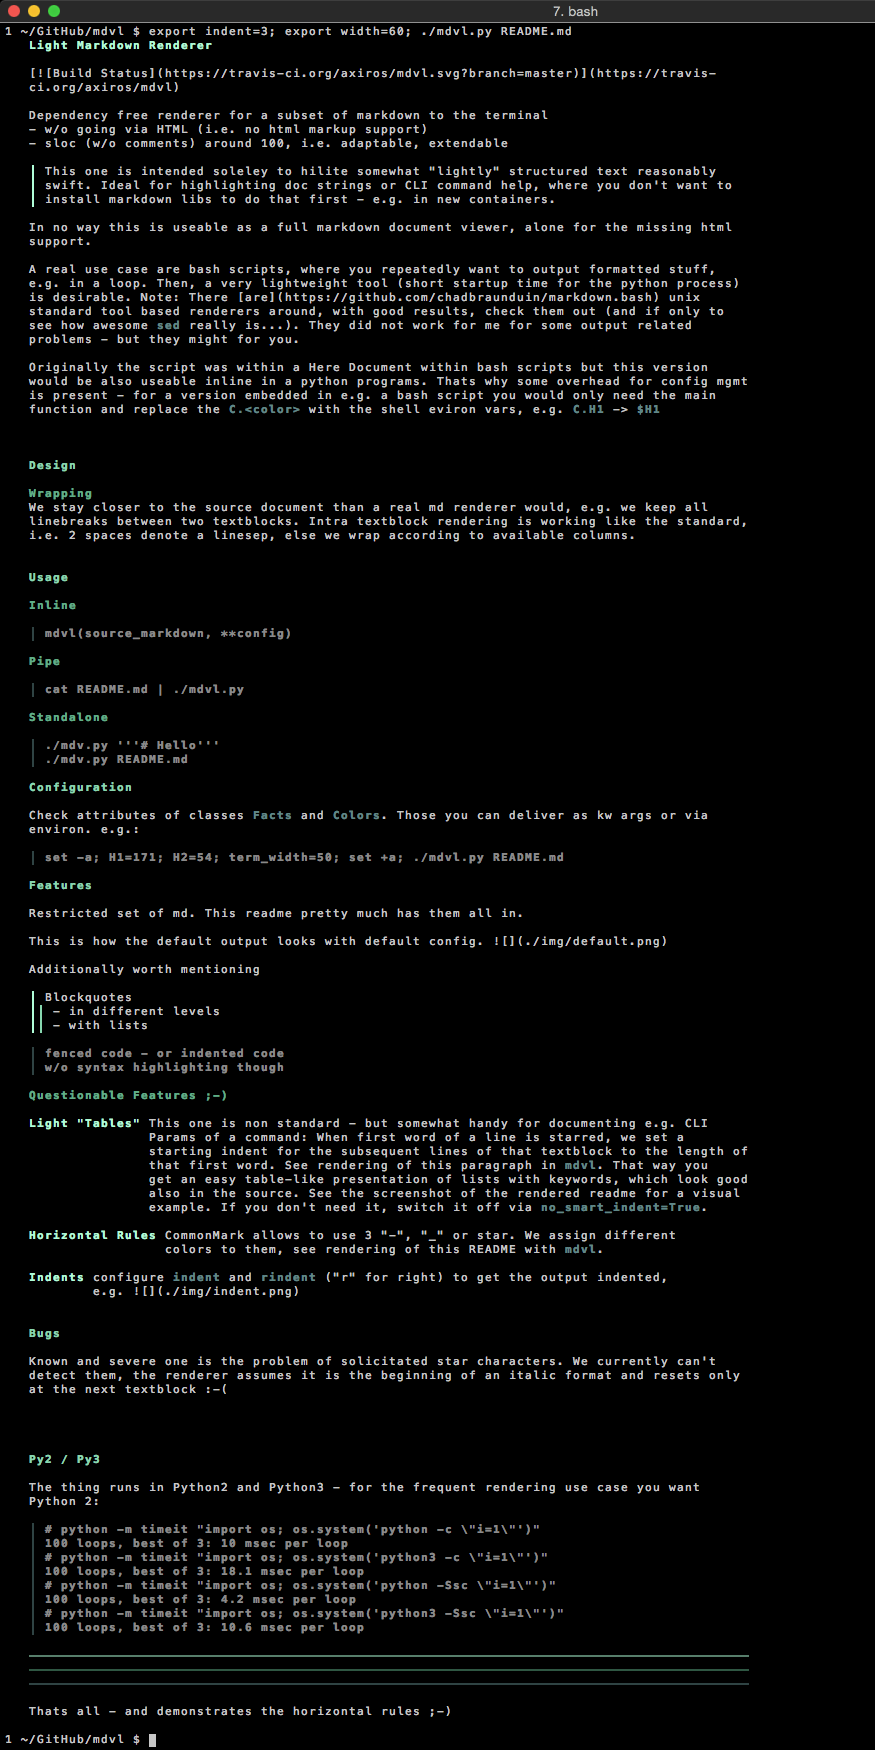
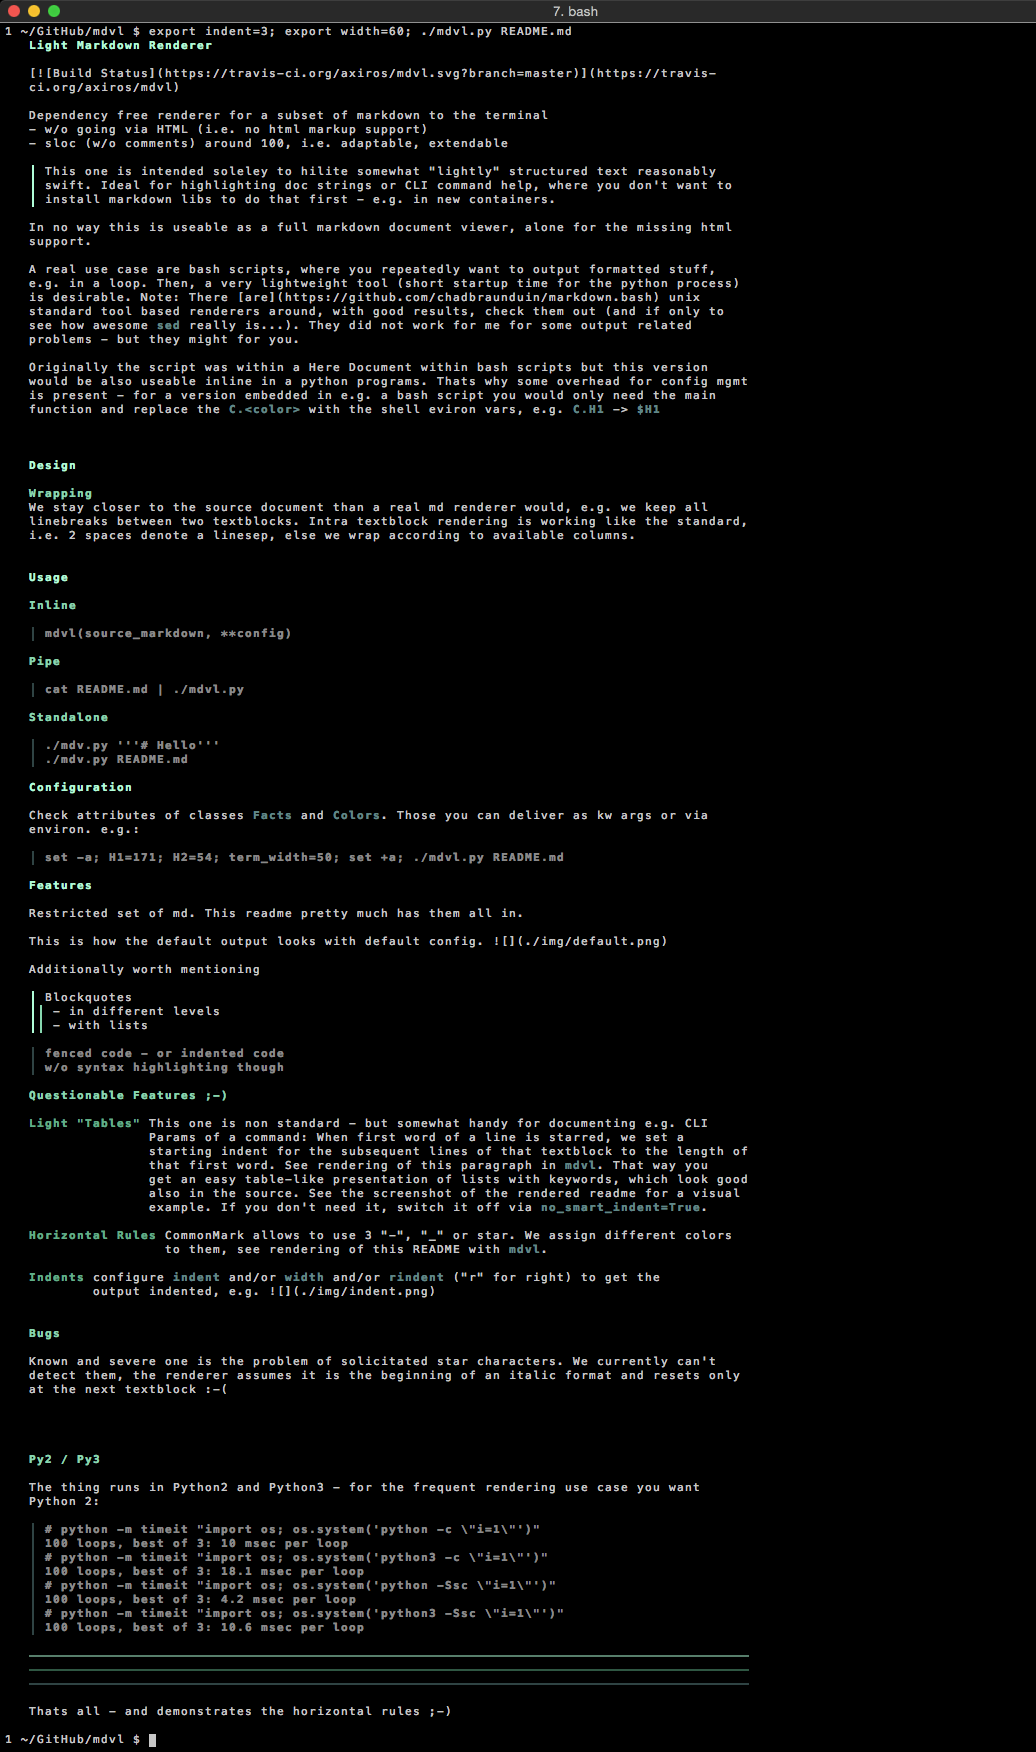
shot

Changed region(s): [[0.0, 0.0, 0.864, 0.8023], [0.0, 0.8331, 0.7406, 1.0]]

diff --git a/README.md b/README.md
@@ -29,32 +29,32 @@ the shell eviron vars, e.g. `C.H1` -> `$H1`
 
 
 
-## Design
+# Design
 
-### Wrapping
+## Wrapping
 We stay closer to the source document than a real md renderer would, e.g. we
 keep all linebreaks between two textblocks.
 Intra textblock rendering is working like the standard, i.e. 2 spaces denote a linesep, else we wrap according to available columns.
 
 
-## Usage
+# Usage
 
-### Inline
+## Inline
 
     mdvl(source_markdown, **config)
 
-### Pipe
+## Pipe
 
     cat README.md | ./mdvl.py
 
-### Standalone
+## Standalone
 
 ```
 ./mdv.py '''# Hello'''
 ./mdv.py README.md
 ```
 
-## Configuration
+# Configuration
 
 Check attributes of classes `Facts` and `Colors`. Those you can deliver as kw
 args or via environ. e.g.:
@@ -63,7 +63,7 @@ args or via environ. e.g.:
 set -a; H1=171; H2=54; term_width=50; set +a; ./mdvl.py README.md
 ```
 
-## Features
+# Features
 
 Restricted set of md. This readme pretty much has them all in.
 
@@ -79,9 +79,9 @@ Additionally worth mentioning
     fenced code - or indented code
     w/o syntax highlighting though
 
-### Questionable Features ;-)
+## Questionable Features ;-)
 
-**Light "Tables"** This one is non standard - but somewhat handy for documenting e.g.
+*Light "Tables"* This one is non standard - but somewhat handy for documenting e.g.
 CLI Params of a command:
 When first word of a line is starred, we set a starting indent for the
 subsequent lines of that textblock to the length of that first word.
@@ -90,10 +90,10 @@ That way you get an easy table-like presentation of lists with keywords,
 which look good also in the source. See the screenshot of the rendered readme for a visual example.
 If you don't need it, switch it off via `no_smart_indent=True`.
 
-**Horizontal Rules** CommonMark allows to use 3 "-", "_" or star. We assign
+*Horizontal Rules* CommonMark allows to use 3 "-", "_" or star. We assign
 different colors to them, see rendering of this README with `mdvl`.
 
-**Indents** configure `indent` and `rindent` ("r" for right) to get the output indented, e.g. ![](./img/indent.png)
+*Indents* configure `indent` and/or `width` and/or `rindent` ("r" for right) to get the output indented, e.g. ![](./img/indent.png)
 
 
 ## Bugs
